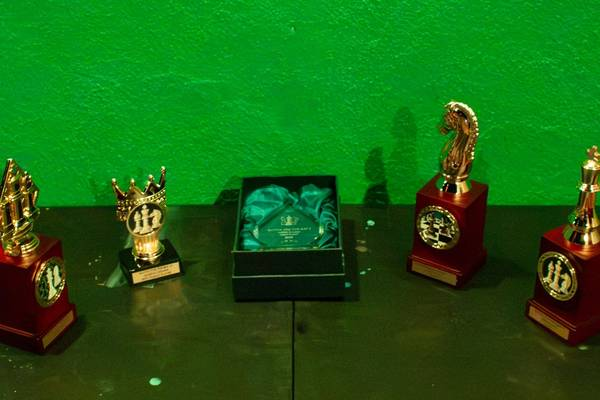
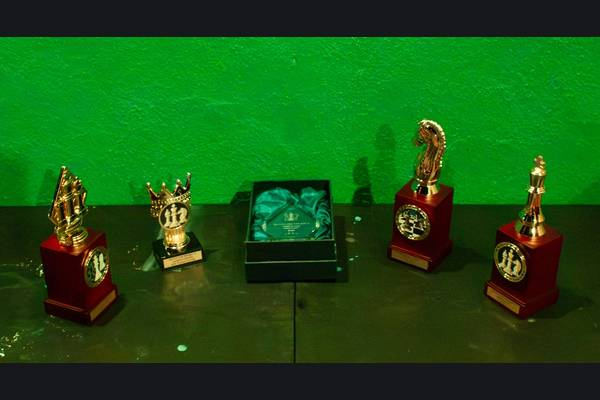
Special email: grid photos fitted whole into their tiles, never cropped

diff --git a/build/special_email.py b/build/special_email.py
@@ -25,7 +25,7 @@ import post_tonight as T          # noqa: E402
 OUT = E.OUT
 LEDGER = os.path.join(OUT, 'special-sent.json')
 esc = E.esc
-# landscape photos only, so the email grid is even without cutting anyone out
+# landscape photos only, each fitted whole into an even grid
 GRID_PHOTOS = 6
 
 
@@ -40,16 +40,11 @@ def email_grid_photos(g):
         if p['w'] / p['h'] < 1.3:          # portraits would make the rows uneven
             continue
         im = Image.open(os.path.join(OUT, p['img'])).convert('RGB')
-        w, h = im.size
-        th = round(w * 2 / 3)               # 3:2, trimmed only from a photo that is wider than that
-        if th < h:
-            top = round((h - th) / 2)
-            im = im.crop((0, top, w, top + th))
-        elif th > h:
-            tw = round(h * 3 / 2)
-            left = round((w - tw) / 2)
-            im = im.crop((left, 0, left + tw, h))
-        im = im.resize((600, 400), Image.LANCZOS)
+        # fitted whole inside a 3:2 tile on the card's own colour: nothing is ever cut off
+        im.thumbnail((600, 400), Image.LANCZOS)
+        tile = Image.new('RGB', (600, 400), E.PANEL)
+        tile.paste(im, ((600 - im.width) // 2, (400 - im.height) // 2))
+        im = tile
         name = 'img/email/%s-%d.jpg' % (g['id'], len(out) + 1)
         im.save(os.path.join(OUT, name), 'JPEG', quality=70, optimize=True, progressive=True)
         out.append((E.SITE + name, p['alt']))
